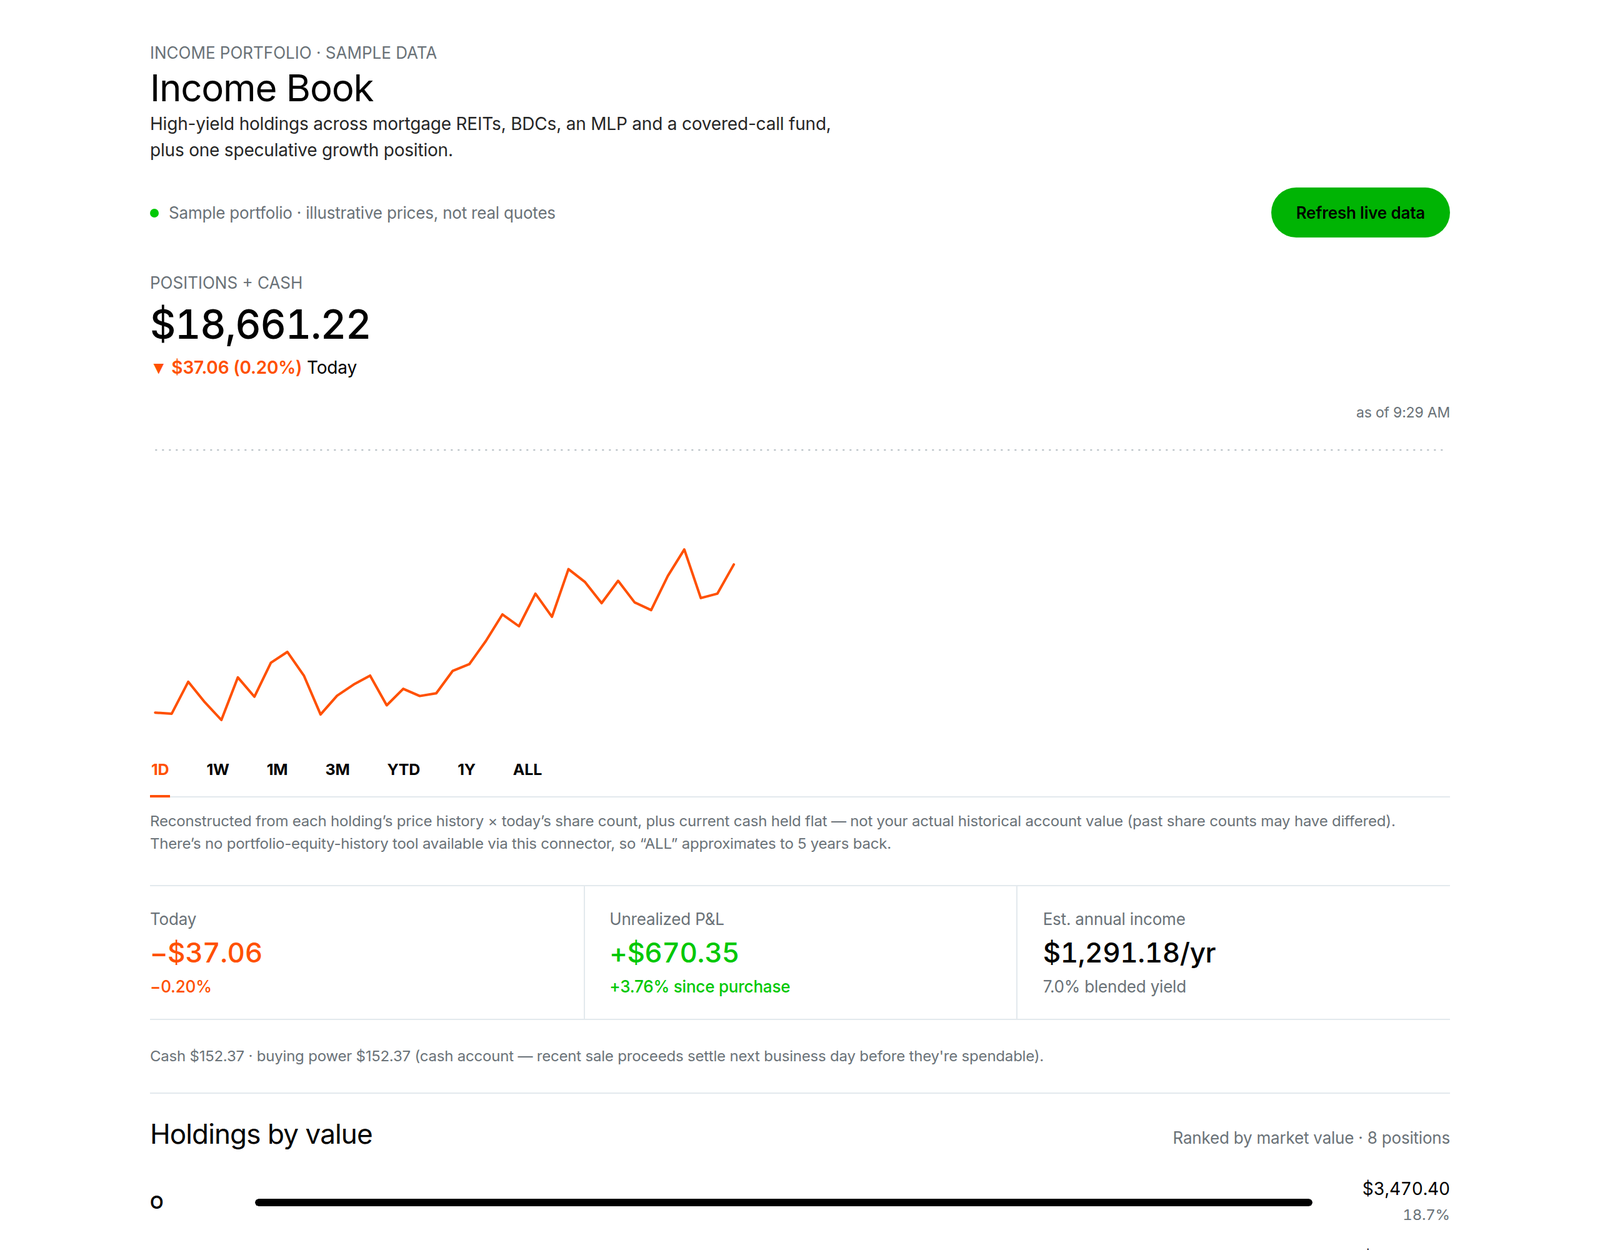
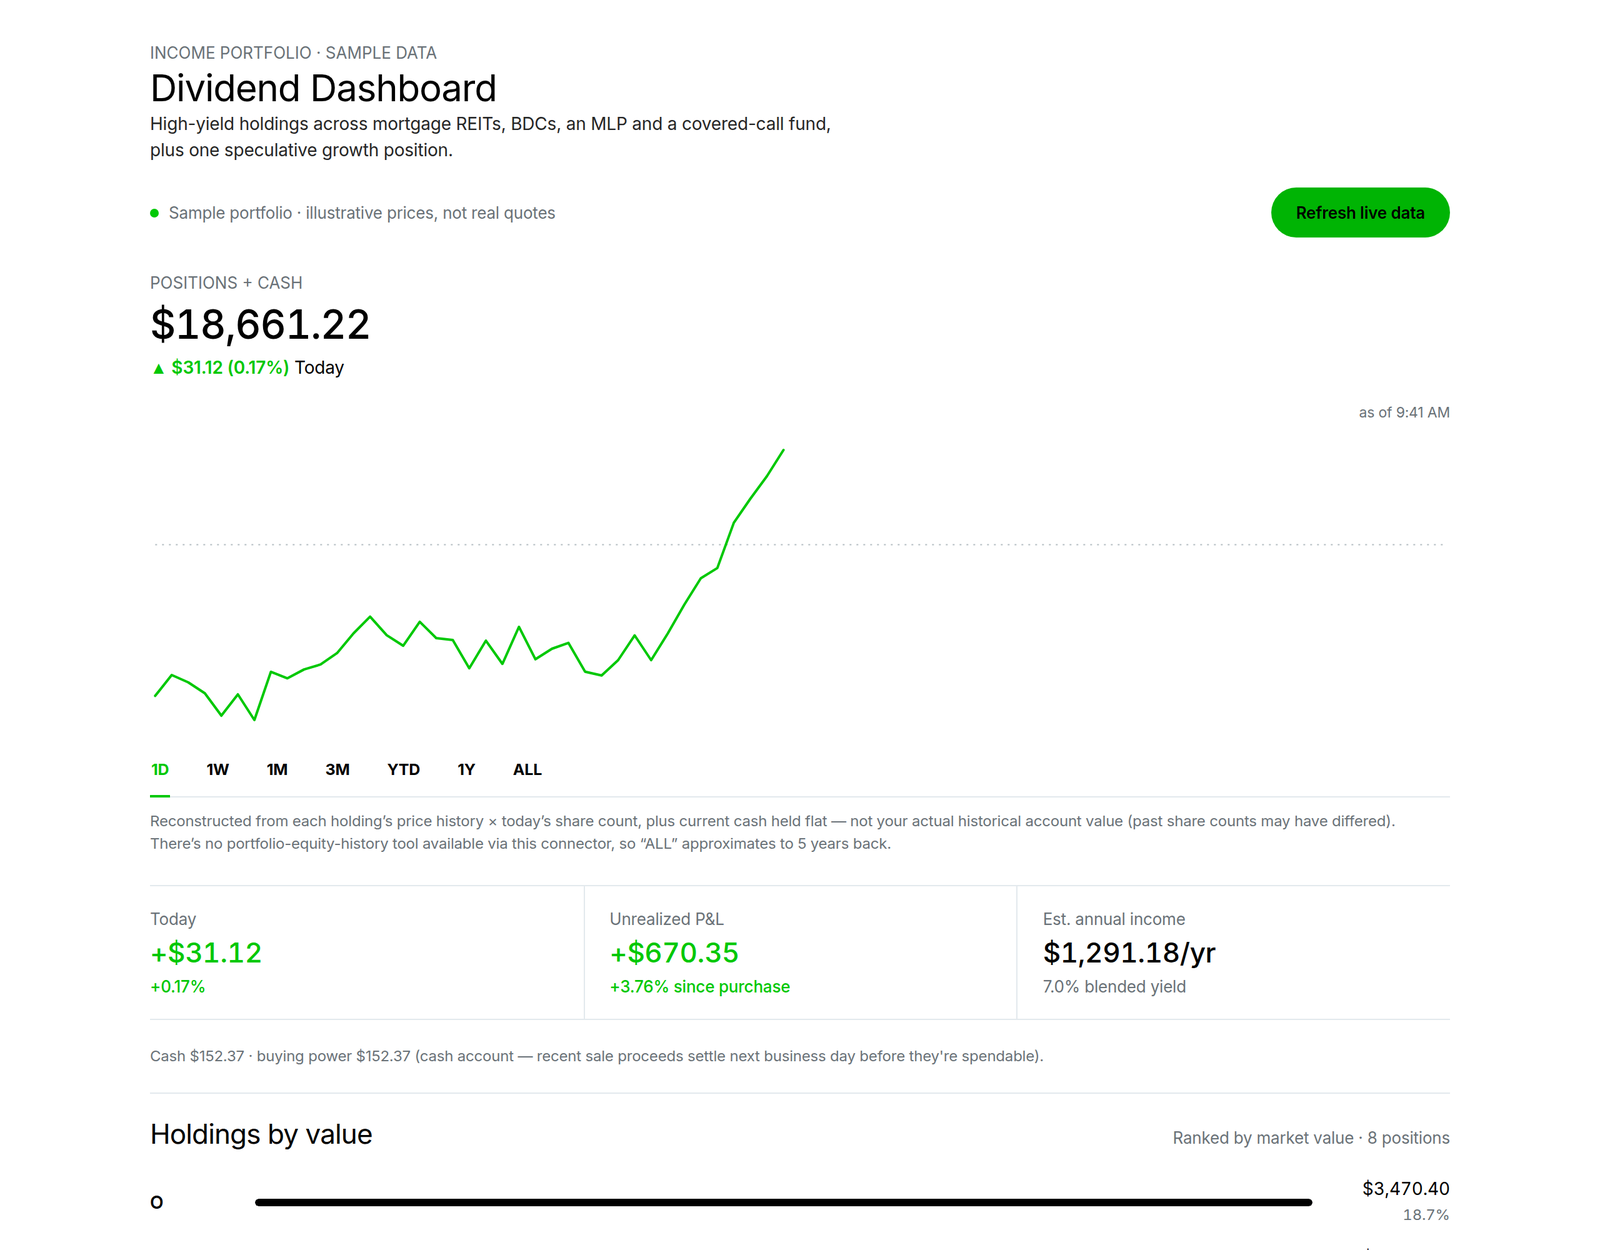
Dividend Dashboard post: wording updates and renamed screenshots
Reworks the "like this" quote to state the unmet need, adds the
retirement question to the context section, rewords "AI boom", and
re-renders the version 4, 7 and 13 screenshots with the new name.

Claude-Session: https://claude.ai/code/session_01YMHiJkcfwiMqtymHKC8Por

diff --git a/content/posts/robinhood-dividend-dashboard.md b/content/posts/robinhood-dividend-dashboard.md
@@ -15,15 +15,15 @@ I open Robinhood's app often. But a company's app can only show me how the compa
 
 None of my questions were about prices. The account that raises them is full of mortgage REITs, business development companies, a pipeline MLP and a covered-call ETF, and it exists to throw off income, not to be watched by the minute.
 
-So I built a page for those questions. I call it the Dividend Dashboard. I didn't write any of the code; Claude did. My job turned out to be something I'd do at work without thinking: product management, mostly by holding up a screenshot of Robinhood's app and saying "like this, but for income."
+So I built a page for those questions. I call it the Dividend Dashboard. I didn't write any of the code; Claude did. My job turned out to be something I'd do at work without thinking: product management, mostly by holding up a screenshot of Robinhood's app and saying "I like this, but it doesn't show me what I'm getting paid."
 
 Most of what's been written about Robinhood's MCP server is about letting AI trade for you. This post is about the other half: using it to see your account the way you actually think about it.
 
 ## Why I Built This
 
-Some context first. This account is money I had to spare, not my retirement. A financial advisor handles my retirement investments, and I don't see that changing. I've been a Robinhood customer since 2017, well before the AI boom, and I keep this money there because trading costs nothing in commissions, there's little friction, and they keep investing in a product people like using.
+Some context first. This account is money I had to spare, not my retirement. A financial advisor handles my retirement investments, and for now that isn't changing. I've been a Robinhood customer since 2017, years before AI assistants like Claude came along, and I keep this money there because trading costs nothing in commissions, there's little friction, and they keep investing in a product people like using.
 
-When I started, I wasn't sure what Robinhood's MCP server and its Agentic account would do for me. When Robinhood launched [Agentic Trading](https://robinhood.com/us/en/support/articles/agentic-trading-overview/), it published an official MCP server — the same open protocol Claude uses to talk to outside tools — and a dedicated brokerage account that AI agents connect to. Per Robinhood's overview, an agent gets read access to account data, and any trade it places can only land in that Agentic account. That gave me a low-stakes way to use AI with my own money, and it has made me a little more comfortable investing. If I get more comfortable with AI and my finances, my thinking about what AI does with the rest of my investments might change. For now, it's this account.
+When I started, I wasn't sure what Robinhood's MCP server and its Agentic account would do for me. When Robinhood launched [Agentic Trading](https://robinhood.com/us/en/support/articles/agentic-trading-overview/), it published an official MCP server — the same open protocol Claude uses to talk to outside tools — and a dedicated brokerage account that AI agents connect to. Per Robinhood's overview, an agent gets read access to account data, and any trade it places can only land in that Agentic account. That gave me a low-stakes way to use AI with my own money, and it has made me a little more comfortable investing. I do wonder: if this works out, could AI help with my retirement too? I'd rather find out first with money that matters less if I lose it or the AI gets something wrong.
 
 Those chat answers were pointed but forgettable. I wanted something I could look at and get the same answers from every time, and a picture beats a paragraph for that. Building it also let me pull my scattered thoughts about how I want to see this account into one place and test whether I could build what Robinhood had. Robinhood has since added a dividend tracker to the app, which I'll get to. And to get my dividend history into any view at all, I had to bring it in myself from an export of my account activity.
 
